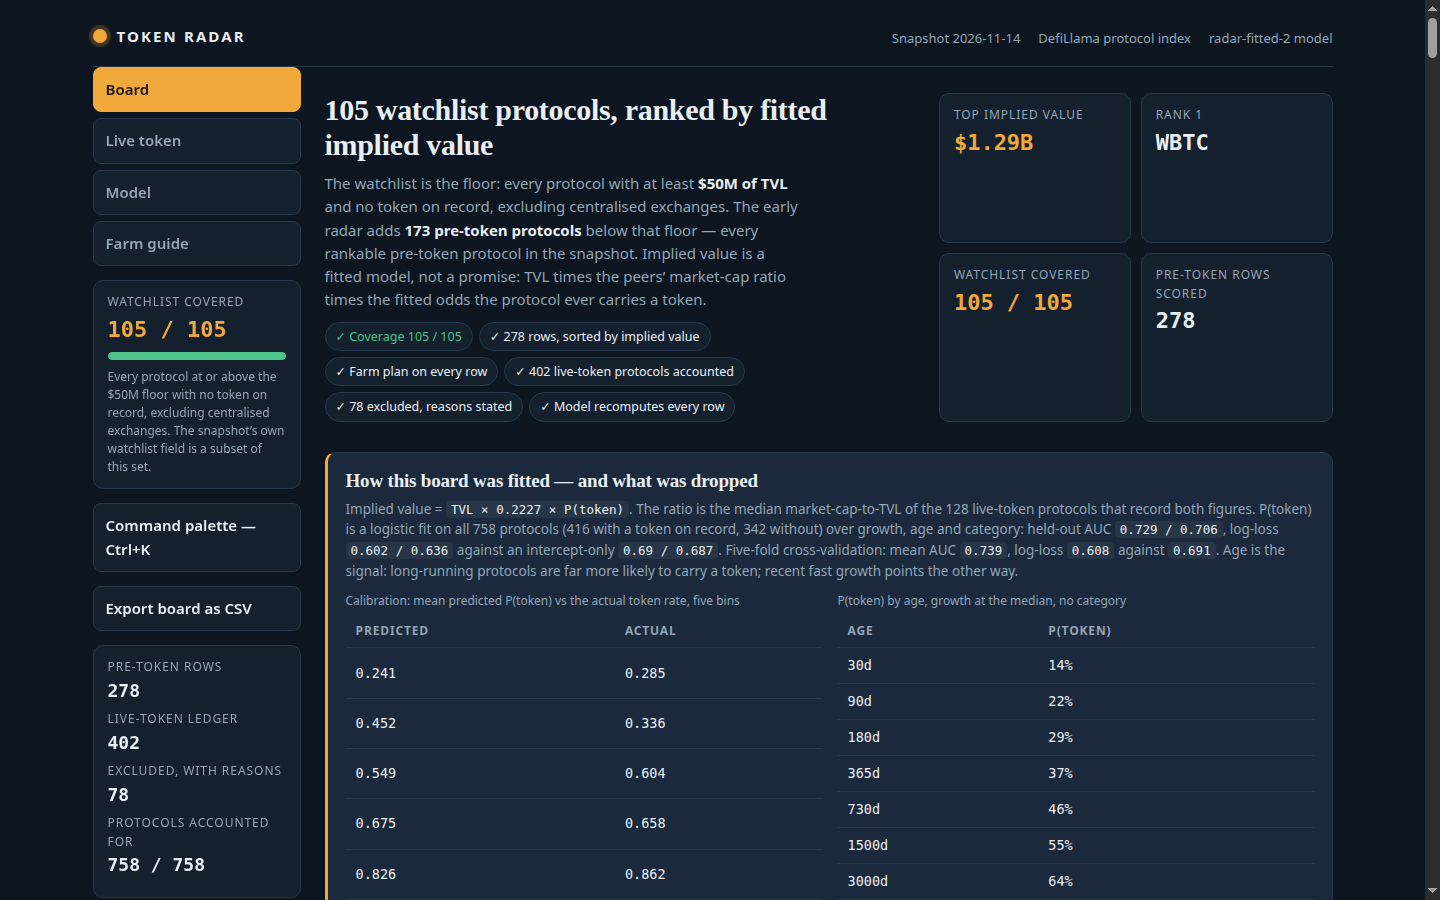
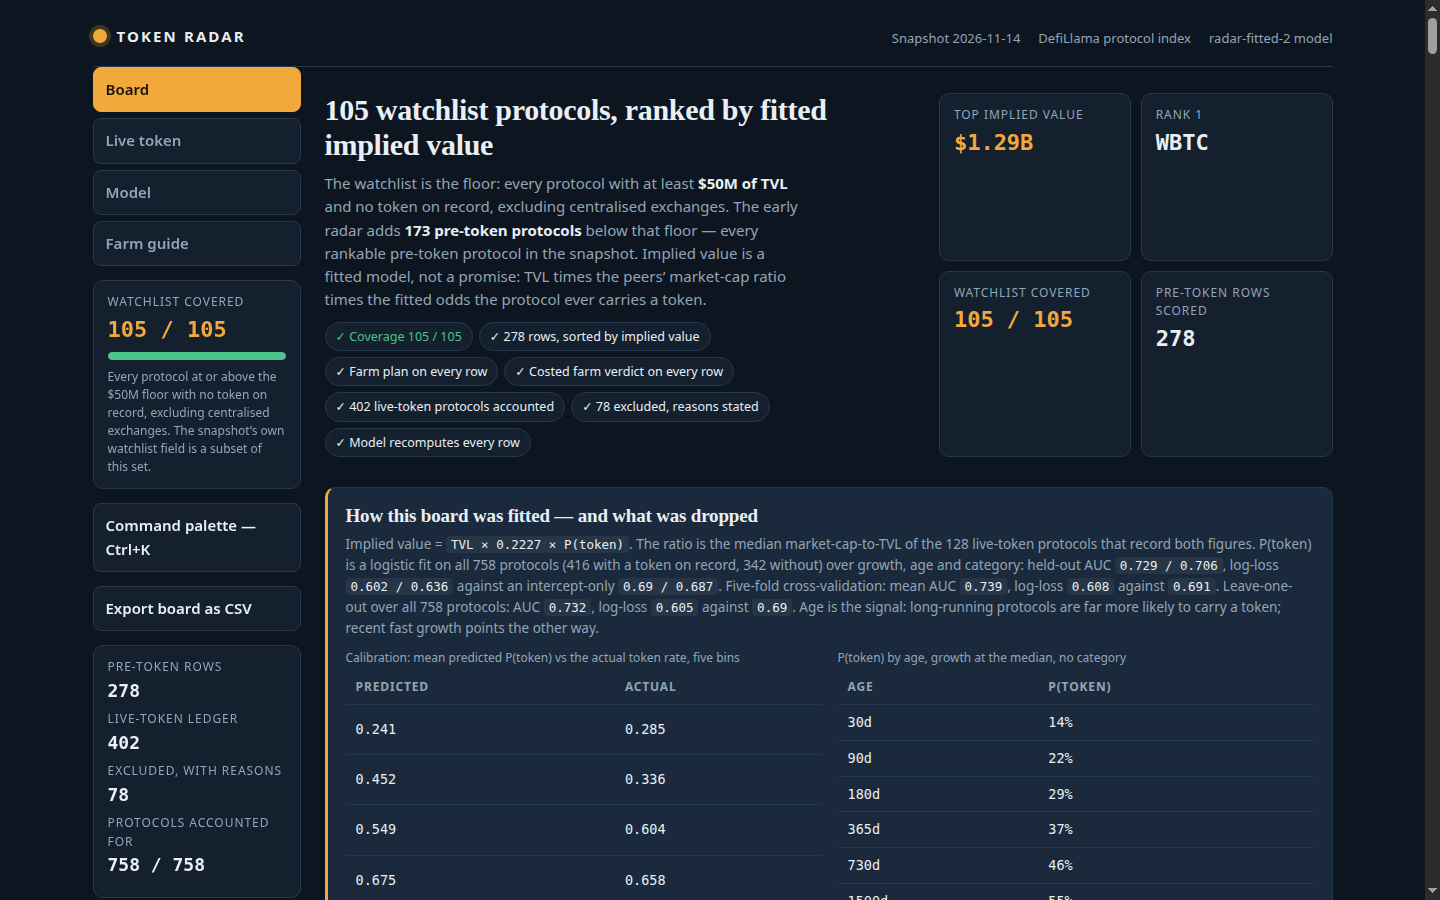
token radar v4: costed farm verdicts, LOO validation, verdict badges
- C3: every row gets a costed farm verdict (GO/MARGINAL/SKIP) from its own
  figures — expected token value of the position against the gas the farm
  costs, netted per hour. 5 GO / 51 MARGINAL / 222 SKIP on this snapshot.
  Verdict rides in farm_summary (detail Farm tab, farm guide) and as a badge
  column on the board, plus the compare view.
- C2: leave-one-out over all 758 protocols (each row predicted by a fit on
  the other 757, AUC 0.732, log-loss 0.605 vs 0.690 intercept-only) joins
  the held-out halves and five-fold CV in the integrity strip and model page.
- C4: verdict badge styles, keyboard focus outlines.
- Screenshots re-shot: board (verdict column), detail Farm tab (WBTC GO),
  Bridge filter.

diff --git a/dashboard/app.js b/dashboard/app.js
@@ -78,8 +78,11 @@
   // chains, TVL, age, odds) — the family decides what the position is and what the week looks like,
   // the figures decide the capital, the hold, the risk note and the exit trigger. The page renders
   // the board's own steps, so the plan on screen and the plan in board.json are the same strings.
+  // The verdict is the plan's costed conclusion — GO, MARGINAL or SKIP from the row's own figures —
+  // and the board carries it as a badge so the call is visible without opening the row.
   function farmSteps(p) { return p.farm_steps || []; }
   function farmSummary(p) { return p.farm_summary || ''; }
+  function verdictOf(p) { return p.farm_verdict || ''; }
   function capitalFor(p) { return p.farm_capital; }
   function holdDaysFor(p) { return p.farm_hold_days; }
 
@@ -161,7 +164,7 @@
     return '<section class="hero"><div>' +
       '<h1>' + DATA.watchlist_size + ' watchlist protocols, ranked by fitted implied value</h1>' +
       '<p>The watchlist is the floor: every protocol with at least <b>$' + Math.round(DATA.floor_usd / 1e6) + 'M of TVL</b> and no token on record, excluding centralised exchanges. The early radar adds <b>' + DATA.early_size + ' pre-token protocols</b> below that floor — every rankable pre-token protocol in the snapshot. Implied value is a fitted model, not a promise: TVL times the peers&#8217; market-cap ratio times the fitted odds the protocol ever carries a token.</p>' +
-      '<p class="checks"><span>&#10003; Coverage ' + DATA.watchlist_size + ' / ' + DATA.watchlist_size + '</span><span>&#10003; ' + DATA.board_size + ' rows, sorted by implied value</span><span>&#10003; Farm plan on every row</span><span>&#10003; ' + DATA.live_size + ' live-token protocols accounted</span><span>&#10003; ' + DATA.excluded_size + ' excluded, reasons stated</span><span>&#10003; Model recomputes every row</span></p>' +
+      '<p class="checks"><span>&#10003; Coverage ' + DATA.watchlist_size + ' / ' + DATA.watchlist_size + '</span><span>&#10003; ' + DATA.board_size + ' rows, sorted by implied value</span><span>&#10003; Farm plan on every row</span><span>&#10003; Costed farm verdict on every row</span><span>&#10003; ' + DATA.live_size + ' live-token protocols accounted</span><span>&#10003; ' + DATA.excluded_size + ' excluded, reasons stated</span><span>&#10003; Model recomputes every row</span></p>' +
       '</div><div class="kpis">' +
       '<div class="kpi"><span>Top implied value</span><b class="gold">' + fmtUsd(top.implied_value_usd) + '</b></div>' +
       '<div class="kpi"><span>Rank 1</span><b>' + esc(top.name) + '</b></div>' +
@@ -178,7 +181,7 @@
       return '<tr><td class="num">' + a[0] + 'd</td><td class="num">' + Math.round(a[1] * 100) + '%</td></tr>';
     }).join('');
     return '<section class="strip"><h2>How this board was fitted — and what was dropped</h2>' +
-      '<p>Implied value = <code>TVL &#215; ' + f.comps_ratio.toFixed(4) + ' &#215; P(token)</code>. The ratio is the median market-cap-to-TVL of the ' + f.comps_live_n + ' live-token protocols that record both figures. P(token) is a logistic fit on all 758 protocols (416 with a token on record, 342 without) over growth, age and category: held-out AUC <code>' + f.odds_auc[0] + ' / ' + f.odds_auc[1] + '</code>, log-loss <code>' + f.odds_logloss[0] + ' / ' + f.odds_logloss[1] + '</code> against an intercept-only <code>' + f.odds_base_logloss[0] + ' / ' + f.odds_base_logloss[1] + '</code>. Five-fold cross-validation: mean AUC <code>' + f.five_fold_auc + '</code>, log-loss <code>' + f.five_fold_logloss + '</code> against <code>' + f.five_fold_base_logloss + '</code>. Age is the signal: long-running protocols are far more likely to carry a token; recent fast growth points the other way.</p>' +
+      '<p>Implied value = <code>TVL &#215; ' + f.comps_ratio.toFixed(4) + ' &#215; P(token)</code>. The ratio is the median market-cap-to-TVL of the ' + f.comps_live_n + ' live-token protocols that record both figures. P(token) is a logistic fit on all 758 protocols (416 with a token on record, 342 without) over growth, age and category: held-out AUC <code>' + f.odds_auc[0] + ' / ' + f.odds_auc[1] + '</code>, log-loss <code>' + f.odds_logloss[0] + ' / ' + f.odds_logloss[1] + '</code> against an intercept-only <code>' + f.odds_base_logloss[0] + ' / ' + f.odds_base_logloss[1] + '</code>. Five-fold cross-validation: mean AUC <code>' + f.five_fold_auc + '</code>, log-loss <code>' + f.five_fold_logloss + '</code> against <code>' + f.five_fold_base_logloss + '</code>.' + (f.loo_auc ? ' Leave-one-out over all 758 protocols: AUC <code>' + f.loo_auc + '</code>, log-loss <code>' + f.loo_logloss + '</code> against <code>' + f.loo_base_logloss + '</code>.' : '') + ' Age is the signal: long-running protocols are far more likely to carry a token; recent fast growth points the other way.</p>' +
       '<div class="strip-tables"><table class="mini"><caption>Calibration: mean predicted P(token) vs the actual token rate, five bins</caption><thead><tr><th scope="col">Predicted</th><th scope="col">Actual</th></tr></thead><tbody>' + cal + '</tbody></table>' +
       '<table class="mini"><caption>P(token) by age, growth at the median, no category</caption><thead><tr><th scope="col">Age</th><th scope="col">P(token)</th></tr></thead><tbody>' + age + '</tbody></table></div>' +
       '<p class="dropped">Dropped after losing on both held-out halves: ' + f.dropped.map(esc).join('; ') + '.</p>' +
@@ -244,11 +247,12 @@
         '<td class="num">' + fmtAge(r.age_days) + '</td>' +
         '<td class="num">' + fmtOdds(r.token_odds) + '</td>' +
         '<td><div class="bar" aria-hidden="true"><i style="width:' + pct + '%"></i></div><span class="num">' + fmtUsd(r.implied_value_usd) + '</span></td>' +
+        '<td><span class="verdict ' + verdictOf(r).toLowerCase() + '">' + esc(verdictOf(r)) + '</span></td>' +
         '</tr>';
     }).join('');
     return '<div class="panel"><div class="table-wrap"><table>' +
       '<caption>Pre-token protocols, strongest implied value first. Select a row for its model and farm plan. Pin rows to keep them above the table; tick up to four to compare.</caption>' +
-      '<thead><tr><th scope="col">Pin</th><th scope="col">Compare</th>' + sortTh('implied', 'Rank') + sortTh('name', 'Protocol') + sortTh('tvl', 'TVL') + sortTh('growth', '7d') + sortTh('age', 'Age') + sortTh('odds', 'Token odds') + sortTh('implied', 'Implied value') + '</tr></thead>' +
+      '<thead><tr><th scope="col">Pin</th><th scope="col">Compare</th>' + sortTh('implied', 'Rank') + sortTh('name', 'Protocol') + sortTh('tvl', 'TVL') + sortTh('growth', '7d') + sortTh('age', 'Age') + sortTh('odds', 'Token odds') + sortTh('implied', 'Implied value') + '<th scope="col">Farm verdict</th></tr></thead>' +
       '<tbody>' + rows + '</tbody></table></div></div>';
   }
   function liveHtml() {
@@ -317,7 +321,7 @@
       '<div class="formula">implied = round( tvl_usd &#215; ' + f.comps_ratio.toFixed(4) + ' &#215; P(token | growth, age, category) )</div>' +
       '<p>TVL and seven-day growth come from the snapshot. Age is the time since the protocol was first listed, the best record of how long it has run with no token; an unlisted age scores as its own term. The early radar is every rankable pre-token protocol below the watchlist floor, by TVL, and the live-token protocols are set aside with their market caps shown. This is an estimate, not a price.</p>' +
       '<h3>The fit, held out three ways</h3>' +
-      '<p>Comps ratio ' + f.comps_ratio.toFixed(4) + ' is the median market-cap-to-TVL of ' + f.comps_live_n + ' live-token protocols recording both figures. The logistic P(token) was fitted on all 758 protocols and scored on held-out halves (split by slug hash, even vs odd, fit on one half and score the other, then swap): AUC ' + f.odds_auc[0] + ' / ' + f.odds_auc[1] + ', log-loss ' + f.odds_logloss[0] + ' / ' + f.odds_logloss[1] + ' against an intercept-only ' + f.odds_base_logloss[0] + ' / ' + f.odds_base_logloss[1] + '. Five-fold cross-validation agrees: mean AUC ' + f.five_fold_auc + ', log-loss ' + f.five_fold_logloss + ' against ' + f.five_fold_base_logloss + '. Calibration, five bins of mean predicted P(token) against the actual token rate: ' + f.calibration.map(function (b) { return b[0].toFixed(3) + ' &#8594; ' + b[1].toFixed(3); }).join(', ') + '. P(token) by age (growth at the median, no category): ' + f.age_curve.map(function (a) { return a[0] + 'd ' + Math.round(a[1] * 100) + '%'; }).join(', ') + '.</p>' +
+      '<p>Comps ratio ' + f.comps_ratio.toFixed(4) + ' is the median market-cap-to-TVL of ' + f.comps_live_n + ' live-token protocols recording both figures. The logistic P(token) was fitted on all 758 protocols and scored on held-out halves (split by slug hash, even vs odd, fit on one half and score the other, then swap): AUC ' + f.odds_auc[0] + ' / ' + f.odds_auc[1] + ', log-loss ' + f.odds_logloss[0] + ' / ' + f.odds_logloss[1] + ' against an intercept-only ' + f.odds_base_logloss[0] + ' / ' + f.odds_base_logloss[1] + '. Five-fold cross-validation agrees: mean AUC ' + f.five_fold_auc + ', log-loss ' + f.five_fold_logloss + ' against ' + f.five_fold_base_logloss + '.' + (f.loo_auc ? ' Leave-one-out over all 758 protocols agrees: AUC ' + f.loo_auc + ', log-loss ' + f.loo_logloss + ' against ' + f.loo_base_logloss + '.' : '') + ' Calibration, five bins of mean predicted P(token) against the actual token rate: ' + f.calibration.map(function (b) { return b[0].toFixed(3) + ' &#8594; ' + b[1].toFixed(3); }).join(', ') + '. P(token) by age (growth at the median, no category): ' + f.age_curve.map(function (a) { return a[0] + 'd ' + Math.round(a[1] * 100) + '%'; }).join(', ') + '.</p>' +
       '<p>Two stronger-looking validations were tested and did not survive, so neither is claimed: a walk-forward split by listing date scores AUC 0.533 with log-loss 1.135 against an intercept-only 0.840 — the target is time-censored, recently listed protocols have not had time to launch, so the calendar does not validate this fit; and conformal intervals on implied value span &#215;0.03–&#215;90 at 90% on held-out data, too wide to price a single row. The held-out splits are the validation.</p>' +
       '<p class="dropped">Dropped after losing on both held-out halves: ' + f.dropped.map(esc).join('; ') + '.</p></section>' + sandboxHtml();
   }
@@ -423,7 +427,8 @@
       ['Token odds', function (r) { return fmtOdds(r.token_odds); }],
       ['Implied value', function (r) { return fmtUsd(r.implied_value_usd); }],
       ['Farm capital', function (r) { return '$' + capitalFor(r); }],
-      ['Hold window', function (r) { return holdDaysFor(r) + ' days'; }]
+      ['Hold window', function (r) { return holdDaysFor(r) + ' days'; }],
+      ['Farm verdict', function (r) { return verdictOf(r); }]
     ];
     var head = picked.map(function (r) { return '<th scope="col">' + esc(r.name) + ' <span class="sub">#' + r.rank + '</span></th>'; }).join('');
     var body = metrics.map(function (m) {

diff --git a/lib/model.ts b/lib/model.ts
@@ -25,7 +25,17 @@
 // target is time-censored, recently listed protocols have not had time to launch, so the calendar
 // does not validate this fit) and conformal intervals on implied value (the held-out 90% interval
 // spans x0.03-x90 — the value ratio varies too widely across live protocols to price one row).
-// Neither is claimed anywhere on the board.
+// Neither is claimed anywhere on the board. A third validation DID survive and is claimed:
+// leave-one-out over all 758 protocols, each row predicted by a fit on the other 757 with that
+// fold's own standardisation (AUC 0.732, log-loss 0.605 against 0.690 intercept-only).
+//
+// Every row also carries a farm verdict, costed from its own figures: the expected token value of
+// the position (implied value per $100 of capital, scaled to the position's capital) against the
+// gas the farm costs. GO when the position is expected to clear its gas; MARGINAL when it covers
+// at least half the gas — cheap optionality on a possible launch; SKIP when it covers less than
+// half. On this snapshot the split is 5 GO / 51 MARGINAL / 222 SKIP: most rows do not clear gas,
+// and the verdict says so instead of pretending otherwise. The verdict is netted, per hour, and
+// shown on the board as a badge as well as in the farm plan.
 //
 // The board covers the snapshot's own watchlist, then adds every rankable pre-token protocol below
 // the $50M floor. The watchlist is defined from the snapshot's own fields, exactly as the snapshot
@@ -111,6 +121,10 @@ export const FIT_EVIDENCE = {
   five_fold_auc: 0.739,
   five_fold_logloss: 0.608,
   five_fold_base_logloss: 0.691,
+  /** Leave-one-out over all 758 protocols, each row predicted by a fit on the other 757. */
+  loo_auc: 0.732,
+  loo_logloss: 0.605,
+  loo_base_logloss: 0.69,
   /** Calibration on the full fit, five bins: mean predicted P(token) against the actual token rate. */
   calibration: [
     [0.241, 0.285],
@@ -190,6 +204,8 @@ export interface RadarRow {
   implied_value_usd: number;
   farm_steps: string[];
   farm_summary: string;
+  /** The row's costed farm verdict: GO, MARGINAL or SKIP, from its own figures. */
+  farm_verdict: 'GO' | 'MARGINAL' | 'SKIP';
   farm_capital: number;
   farm_hold_days: number;
 }
@@ -512,9 +528,40 @@ function riskFor(p: SnapshotProtocol, age: number | null, odds: number, capital:
 /** One line of farm economics for a row: implied token value per $100 of capital, and total gas. */
 export function farmSummary(p: SnapshotProtocol, odds: number, capital: number, hold: number): string {
   const per100 = 100 * COMPS_RATIO * odds;
+  const gas = gasFor(capital, hold);
+  const v = farmVerdict(p, odds, capital, hold);
+  const sign = v.net >= 0 ? '+' : '−';
+  const hourSign = v.perHour >= 0 ? '+' : '−';
+  const perHour = Math.abs(v.perHour) >= 0.1 ? v.perHour.toFixed(2) : v.perHour.toFixed(3);
+  return `Each $100 here carries $${per100.toFixed(2)} of implied token value (P(token) ${Math.round(odds * 100)}%). Total gas about $${gas} over ${hold} days. Verdict: ${v.verdict} — net ${sign}$${Math.abs(v.net).toFixed(2)} on a $${capital} position over ${hold} days (${hourSign}$${Math.abs(Number(perHour)).toFixed(3)}/hour after gas).`;
+}
+
+/** The gas one farm position costs: $3 to set up, $4–$8 for the first transfer by capital, $2 a week. */
+export function gasFor(capital: number, hold: number): number {
   const weeks = Math.ceil(hold / 7);
-  const gas = 3 + (capital >= 150 ? 8 : 4) + 2 * weeks;
-  return `Each $100 here carries $${per100.toFixed(2)} of implied token value (P(token) ${Math.round(odds * 100)}%). Total gas about $${gas} over ${hold} days.`;
+  return 3 + (capital >= 150 ? 8 : 4) + 2 * weeks;
+}
+
+/**
+ * A row's farm verdict, costed from its own figures only: the expected token value of the position
+ * (implied value per $100 of capital, scaled to the position's capital) against the gas the farm
+ * costs. GO when the position is expected to clear its gas; MARGINAL when it covers at least half
+ * the gas; SKIP when it covers less than half. The thresholds are on the position's own scale: a
+ * stricter cut (net above twice the gas) leaves every row SKIP on this snapshot, which would make
+ * the verdict a column that never speaks — so the line is drawn where the economics actually turn.
+ */
+export function farmVerdict(
+  p: SnapshotProtocol,
+  odds: number,
+  capital: number,
+  hold: number,
+): { verdict: 'GO' | 'MARGINAL' | 'SKIP'; gross: number; gas: number; net: number; perHour: number } {
+  const gross = 100 * COMPS_RATIO * odds * (capital / 100);
+  const gas = gasFor(capital, hold);
+  const net = gross - gas;
+  const perHour = net / (hold * 24);
+  const verdict = net > 0 ? 'GO' : net > -gas / 2 ? 'MARGINAL' : 'SKIP';
+  return { verdict, gross, gas, net, perHour };
 }
 
 /** The exit trigger for one protocol: unwind if its TVL falls below half of where it stands now. */
@@ -631,6 +678,12 @@ export function radarRow(row: BoardRow): RadarRow {
     implied_value_usd: row.implied_value_usd,
     farm_steps: row.farm_steps,
     farm_summary: row.farm_summary,
+    farm_verdict: farmVerdict(
+      { slug: row.slug, name: row.name, category: row.category, chains: row.chains, tvl_usd: row.tvl_usd, change_7d: row.change_7d, mcap_usd: row.mcap_usd, listed_at: row.listed_at, gecko_id: row.gecko_id, symbol: row.symbol },
+      row.token_odds,
+      row.farm_capital,
+      row.farm_hold_days,
+    ).verdict,
     farm_capital: row.farm_capital,
     farm_hold_days: row.farm_hold_days,
   };

diff --git a/dashboard/app.css b/dashboard/app.css
@@ -107,6 +107,14 @@ td.num, th.num { text-align: right; }
 .bar i { display: block; height: 100%; background: var(--accent); border-radius: 3px; }
 .status { display: inline-block; font-size: 12px; padding: 2px 8px; border-radius: 20px; border: 1px solid var(--border); color: var(--muted); }
 .status.live { color: var(--positive); border-color: rgba(76, 195, 138, 0.5); }
+/* The costed farm verdict: one badge per row, green when the position is expected to clear its
+ * gas, amber when it covers at least half, grey when it does not. Same colours as the rest of
+ * the page's positive / accent / faint scale, so the badge reads as part of the table. */
+.verdict { display: inline-block; font-size: 11.5px; font-weight: 650; letter-spacing: 0.06em; padding: 4px 9px; border-radius: 20px; border: 1px solid var(--border); color: var(--muted); white-space: nowrap; }
+.verdict.go { color: var(--positive); border-color: rgba(76, 195, 138, 0.55); background: rgba(76, 195, 138, 0.1); }
+.verdict.marginal { color: var(--accent); border-color: rgba(242, 169, 59, 0.55); background: rgba(242, 169, 59, 0.1); }
+.verdict.skip { color: var(--faint); }
+button:focus-visible, a:focus-visible, input:focus-visible, select:focus-visible { outline: 2px solid var(--accent); outline-offset: 2px; }
 .empty { padding: 40px 20px; text-align: center; }
 .empty p { color: var(--muted); margin: 8px 0 16px; }
 .button { background: var(--accent); color: var(--accent-ink); border: 0; border-radius: 8px; padding: 10px 16px; font-weight: 650; }

diff --git a/README.md b/README.md
@@ -13,8 +13,10 @@ pre-token protocols below it — by one fitted model: implied value = TVL ×
 0.2227 × P(token). The 0.2227 is the median market-cap-to-TVL ratio of the 128
 live-token protocols that record both figures, and P(token) is a logistic fit
 over growth, age and category, held out twice (AUC 0.729 / 0.706, log-loss
-0.602 / 0.636 against an intercept-only 0.690 / 0.687) and five-fold
-cross-validated (mean AUC 0.739, log-loss 0.608 against 0.691). Category
+0.602 / 0.636 against an intercept-only 0.690 / 0.687), five-fold
+cross-validated (mean AUC 0.739, log-loss 0.608 against 0.691) and
+leave-one-out validated over all 758 protocols (AUC 0.732, log-loss 0.605
+against 0.690). Category
 medians, a log-linear mcap regression and growth terciles were all fitted and
 dropped after losing on both held-out halves; a walk-forward split and conformal
 intervals were tested and also failed, and the dashboard says so in its
@@ -22,7 +24,11 @@ integrity strip instead of claiming them. Every row carries a six-step farm
 plan with a cost and a duration, built from that protocol's own record: the
 family decides the position and the weekly cadence, the figures decide the
 capital, the hold, a risk note and an exit trigger at half the protocol's own
-TVL — so a lending farm is not a bridge farm. The 402 live-token protocols are
+TVL — so a lending farm is not a bridge farm. Every row also carries a costed
+farm verdict — GO, MARGINAL or SKIP — from the expected token value of its own
+position against the gas the farm costs, netted per hour (5 GO / 51 MARGINAL /
+222 SKIP on this snapshot: most rows do not clear gas, and the verdict says
+so). The 402 live-token protocols are
 set aside in their own ledger with their market caps shown, never mixed into
 the ranking, and the 78 protocols the board does not rank are listed with the
 reason each one is excluded: 278 ranked + 402 live + 78 excluded = 758.
